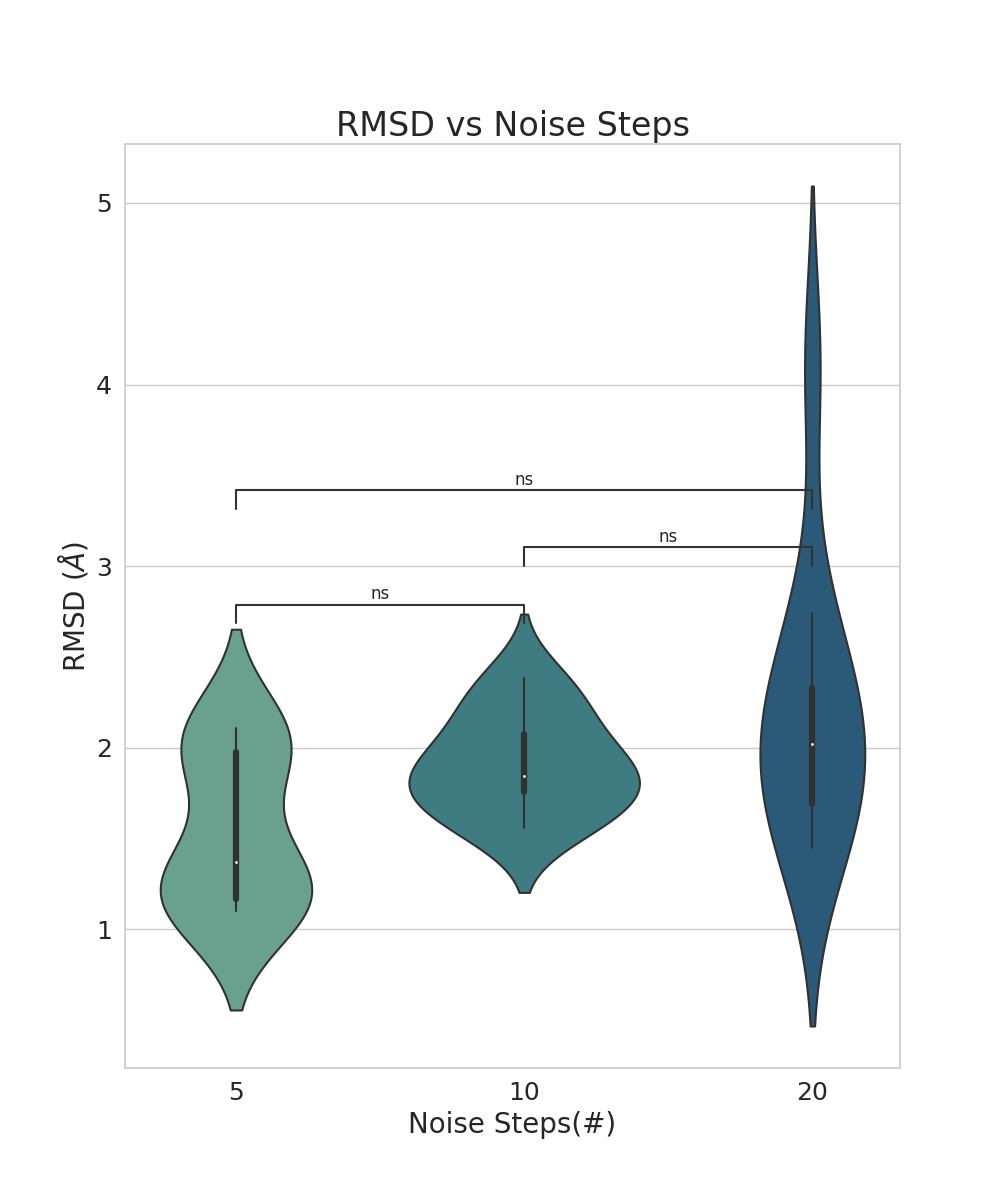
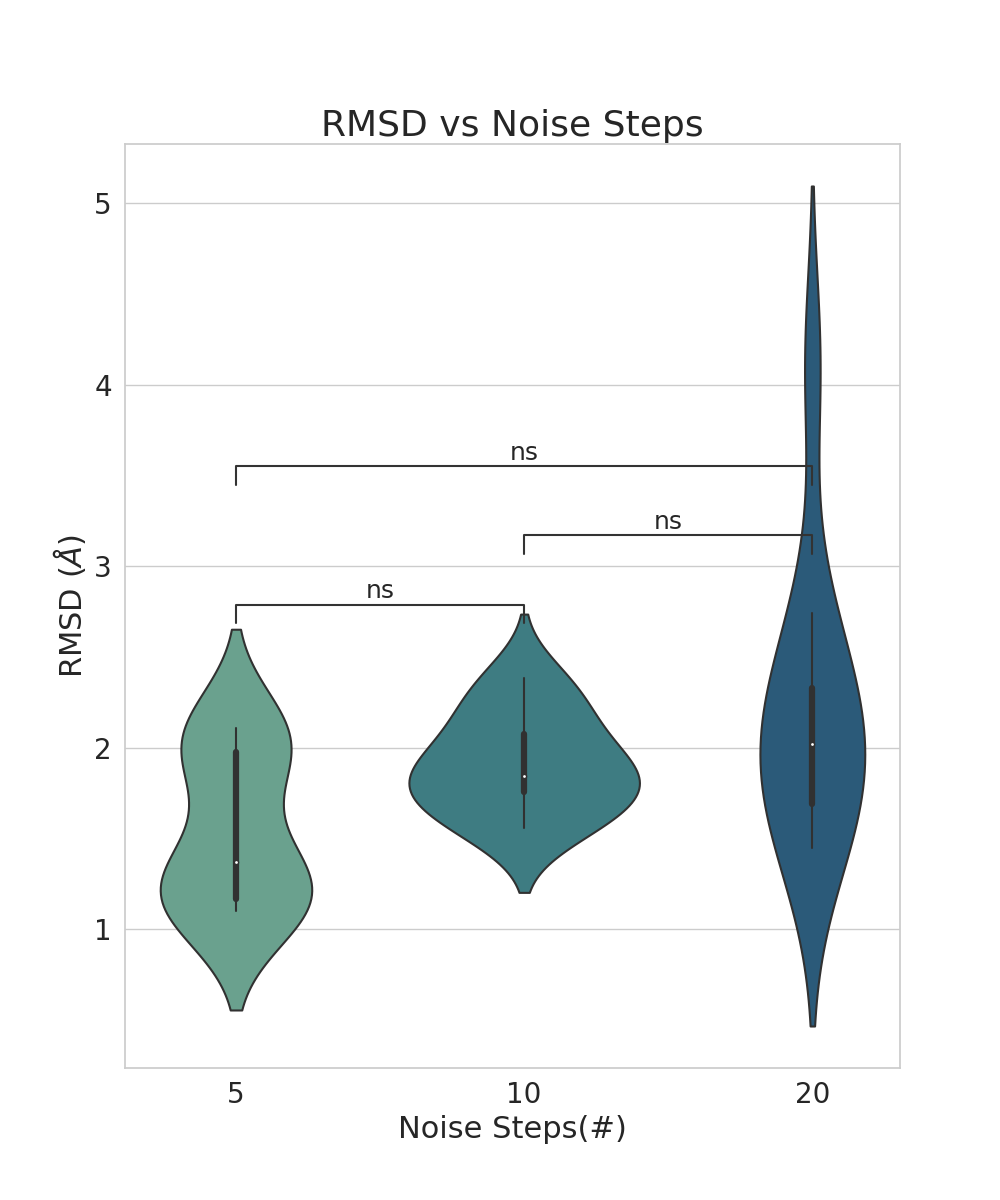
Larger_figures

diff --git a/FIGURES/Noise_Scale_figures.py b/FIGURES/Noise_Scale_figures.py
@@ -38,9 +38,9 @@ plt.figure(figsize=(12, 10))
 barplot = sns.barplot(x='Noise', y='Percentage', data=df_barplot, palette='crest')
 
 # Add titles and labels
-plt.title('Noise Scale Success Rates',fontsize=20)
-plt.ylabel('Hits Success Rate (%)',fontsize=16)
-plt.xlabel('Noise Scale (Arb.Units)', fontsize=16)
+plt.title('Noise Scale Success Rates',fontsize=26)
+plt.ylabel('Hits Success Rate (%)',fontsize=22)
+plt.xlabel('Noise Scale (Arb.Units)', fontsize=22)
 barplot.set_xticklabels((f'0.05\n n={len( df_filtered_112[df_filtered_112["Noise"]==0.05])}', 
                          f'0.1\n n={len(df_filtered_112[df_filtered_112["Noise"]==0.1])}', 
                          f'0.5\n n={len(df_filtered_112[df_filtered_112["Noise"]==0.5])}', 
@@ -48,7 +48,7 @@ barplot.set_xticklabels((f'0.05\n n={len( df_filtered_112[df_filtered_112["Noise
 
 # Show the plot
 plt.ylim((0,0.07))
-plt.tick_params(axis='y', labelsize=14)
+plt.tick_params(axis='y', labelsize=20)
 
 plt.savefig('/home/cchacon/Carlos_scripts/FIGURES/barplot_noisescale.png')
 
@@ -64,26 +64,15 @@ df_filtered_112.loc[df_filtered_112['Noise'] == '01', 'Noise'] = 0.1
 df_filtered_112.loc[df_filtered_112['Noise'] == '05', 'Noise'] = 0.5
 df_filtered_112.loc[df_filtered_112['Noise'] == '1', 'Noise'] = 1.0
 
-
-
-
-
-
-
-
-
-
-
-
 plt.figure(figsize=(12,10))
 sns.set_theme(style='whitegrid')
 sns.pointplot(data=df_filtered_112, x='Noise', y='RMSD', hue= 'Noise', palette='crest', s=100,capsize=0.2, ci=95 )
-plt.title('RMSD vs Noise Scale', fontsize=20)
-plt.xlabel('Noise Scale (Arb.U)', fontsize=16)
-plt.ylabel(f'RMSD ($\AA$)', fontsize=16)
+plt.title('RMSD vs Noise Scale', fontsize=26)
+plt.xlabel('Noise Scale (Arb.U)', fontsize=22)
+plt.ylabel(f'RMSD ($\AA$)', fontsize=22)
 plt.legend(title='Noise Scale')
-plt.tick_params(axis='y', labelsize=14)
-plt.tick_params(axis='x', labelsize=14)
+plt.tick_params(axis='y', labelsize=20)
+plt.tick_params(axis='x', labelsize=20)
 
 plt.savefig('/home/cchacon/Carlos_scripts/FIGURES/Noise_Scale_RMSD.png')
 
@@ -113,14 +102,15 @@ annotator.configure(
     test='Mann-Whitney',
     text_format='star',
     loc='inside',
-    comparisons_correction="bonferroni")
+    comparisons_correction="bonferroni",
+    fontsize=18)
     
 annotator.apply_and_annotate()
-plt.title('RMSD vs Noise Scale', fontsize=20)
-plt.ylabel(f'RMSD ($\AA$)', fontsize=16)
-plt.xlabel('Noise Scale (Arb.U)', fontsize=16)
-plt.tick_params(axis='y', labelsize=14)
-plt.tick_params(axis='x', labelsize=14)
+plt.title('RMSD vs Noise Scale', fontsize=26)
+plt.ylabel(f'RMSD ($\AA$)', fontsize=22)
+plt.xlabel('Noise Scale (Arb.U)', fontsize=22)
+plt.tick_params(axis='y', labelsize=20)
+plt.tick_params(axis='x', labelsize=20)
 
 plt.savefig('/home/cchacon/Carlos_scripts/FIGURES/violinplot_rmsd_noisescale.png')
 
@@ -144,14 +134,15 @@ annotator.configure(
     test='Mann-Whitney',
     text_format='star',
     loc='inside',
-    comparisons_correction="bonferroni")
+    comparisons_correction="bonferroni",
+    fontsize=18)
     
 annotator.apply_and_annotate()
-plt.title('Noise Scale vs PAE interaction', fontsize=20)
-plt.xlabel('Noise Scale (Arb.Units)', fontsize=16)
-plt.ylabel(f'PAE interaction ($\AA$)', fontsize=16)
-plt.tick_params(axis='y', labelsize=14)
-plt.tick_params(axis='x', labelsize=14)
+plt.title('Noise Scale vs PAE interaction', fontsize=26)
+plt.xlabel('Noise Scale (Arb.Units)', fontsize=22)
+plt.ylabel(f'PAE interaction ($\AA$)', fontsize=22)
+plt.tick_params(axis='y', labelsize=20)
+plt.tick_params(axis='x', labelsize=20)
 
 plt.savefig('/home/cchacon/Carlos_scripts/FIGURES/violinplot_pae_interaction_noise_scale.png')
 
@@ -172,14 +163,15 @@ annotator.configure(
     test='Mann-Whitney',
     text_format='star',
     loc='inside',
-    comparisons_correction="bonferroni")
+    comparisons_correction="bonferroni",
+    fontsize=18)
     
 annotator.apply_and_annotate()
-plt.title('Noise Scale vs pLDDT binder', fontsize=20)
-plt.xlabel('Noise Scale (Arb.Units)',fontsize=16)
-plt.ylabel(f'pLDDT binder (Arb.Units)', fontsize=16)
-plt.tick_params(axis='y', labelsize=14)
-plt.tick_params(axis='x', labelsize=14)
+plt.title('Noise Scale vs pLDDT binder', fontsize=26)
+plt.xlabel('Noise Scale (Arb.Units)',fontsize=22)
+plt.ylabel(f'pLDDT binder (Arb.Units)', fontsize=22)
+plt.tick_params(axis='y', labelsize=20)
+plt.tick_params(axis='x', labelsize=20)
 plt.savefig('/home/cchacon/Carlos_scripts/FIGURES/violinplot_plddt_binder_noise_scale.png')
 
 
@@ -212,11 +204,11 @@ sns.scatterplot(data=df_filtered_112,x='pae_interaction',y='plddt_binder', hue='
 sns.scatterplot(data=df_original, x='pae_interaction', y='plddt_binder', color='red', s=100, edgecolors='k', label='Original')
 
 # Add titles and labels
-plt.title('PAE Interaction vs. pLDDT Binder Run_112', fontsize=20)
-plt.xlabel('PAE Interaction', fontsize=16)
-plt.ylabel('pLDDT Binder', fontsize=16)
-plt.tick_params(axis='y', labelsize=14)
-plt.tick_params(axis='x', labelsize=14)
+plt.title('PAE Interaction vs. pLDDT Binder Run_112', fontsize=26)
+plt.xlabel('PAE Interaction', fontsize=22)
+plt.ylabel('pLDDT Binder', fontsize=22)
+plt.tick_params(axis='y', labelsize=20)
+plt.tick_params(axis='x', labelsize=20)
 
 
 # Highlight specific region with a square
@@ -270,11 +262,11 @@ sns.scatterplot(data=df_filtered_264, x='pae_interaction', y='plddt_binder', hue
 sns.scatterplot(data=df_original, x='pae_interaction', y='plddt_binder', color='red', s=100, edgecolors='k', label='Original')
 
 # Add titles and labels
-plt.title('PAE Interaction vs. pLDDT Binder Run_264', fontsize=20)
-plt.xlabel('PAE Interaction', fontsize=16)
-plt.ylabel('pLDDT Binder', fontsize=16)
-plt.tick_params(axis='y', labelsize=14)
-plt.tick_params(axis='x', labelsize=14)
+plt.title('PAE Interaction vs. pLDDT Binder Run_264', fontsize=26)
+plt.xlabel('PAE Interaction', fontsize=22)
+plt.ylabel('pLDDT Binder', fontsize=22)
+plt.tick_params(axis='y', labelsize=20)
+plt.tick_params(axis='x', labelsize=20)
 
 # Highlight specific region with a square
 rect = patches.Rectangle((0, 80), 10, 20, linewidth=2, edgecolor='black', facecolor='none')

diff --git a/FIGURES/Figure_noise_steps.py b/FIGURES/Figure_noise_steps.py
@@ -38,15 +38,15 @@ sns.set_theme(style='whitegrid')
 barplot = sns.barplot(x='Noise', y='Percentage', data=df_barplot, palette='crest')
 
 # Add titles and labels
-plt.title('Noise Steps Success Rates', fontsize=24)
-plt.ylabel('Hits Success Rate (%)', fontsize=20)
+plt.title('Noise Steps Success Rates', fontsize=26)
+plt.ylabel('Hits Success Rate (%)', fontsize=22)
 
-plt.xlabel('Noise Steps (#)', fontsize=20)
+plt.xlabel('Noise Steps (#)', fontsize=22)
 barplot.set_xticklabels((f'5\n n={len( df_whole[df_whole["Noise_Steps"]==5])}', 
                          f'10\n n={len(df_whole[df_whole["Noise_Steps"]==10])}', 
                          f'20\n n={len(df_whole[df_whole["Noise_Steps"]==20])}', 
                          f'30\n n={len(df_whole[df_whole["Noise_Steps"]==30])}'), fontsize=18)
-plt.tick_params(axis='y', labelsize=18)
+plt.tick_params(axis='y', labelsize=20)
 # Show the plot
 plt.ylim((0,0.07))
 plt.savefig('/home/cchacon/Carlos_scripts/FIGURES/barplot_noisesteps.png')
@@ -75,11 +75,11 @@ sns.pointplot(data=df_filtered, x='Noise', y='RMSD', hue= 'Noise', palette='cres
 
 # Plot the regression line
 # sns.lineplot(x=X, y=y_pred, label=f'$r$={r_value:.2f}', color='red', ax=ax) ##Doesn't work##
-plt.title('RMSD vs Noise Steps', fontsize=24)
-plt.xlabel('Noise Steps (#)', fontsize=20)
-plt.ylabel(f'RMSD ($\AA$)', fontsize=20)
-plt.tick_params(axis='y', labelsize=18)
-plt.tick_params(axis='x', labelsize=18)
+plt.title('RMSD vs Noise Steps', fontsize=26)
+plt.xlabel('Noise Steps (#)', fontsize=22)
+plt.ylabel(f'RMSD ($\AA$)', fontsize=22)
+plt.tick_params(axis='y', labelsize=20)
+plt.tick_params(axis='x', labelsize=20)
 plt.legend(title='Noise Steps')
 plt.savefig('/home/cchacon/Carlos_scripts/FIGURES/NoiseStepsRMSD.png')
 
@@ -101,14 +101,15 @@ annotator.configure(
     test='Mann-Whitney',
     text_format='star',
     loc='inside',
-    comparisons_correction="bonferroni")
+    comparisons_correction="bonferroni",
+    fontsize=18)
     
 annotator.apply_and_annotate()
-plt.title('RMSD vs Noise Steps', fontsize=24)
-plt.ylabel(f'RMSD ($\AA$)', fontsize=20)
-plt.xlabel('Noise Steps(#)', fontsize=20)
-plt.tick_params(axis='y', labelsize=18)
-plt.tick_params(axis='x', labelsize=18)
+plt.title('RMSD vs Noise Steps', fontsize=26)
+plt.ylabel(f'RMSD ($\AA$)', fontsize=22)
+plt.xlabel('Noise Steps(#)', fontsize=22)
+plt.tick_params(axis='y', labelsize=20)
+plt.tick_params(axis='x', labelsize=20)
 
 plt.savefig('/home/cchacon/Carlos_scripts/FIGURES/violinplot_rmsd_noisesteps.png')
 
@@ -134,14 +135,15 @@ annotator.configure(
     test='Mann-Whitney',
     text_format='star',
     loc='inside',
-    comparisons_correction="bonferroni")
+    comparisons_correction="bonferroni",
+    fontsize=18)
     
 annotator.apply_and_annotate()
-plt.title('Noise Steps vs PAE interaction', fontsize=24)
-plt.xlabel('Noise Steps (#)', fontsize=20)
-plt.ylabel(f'PAE interaction ($\AA$)', fontsize=20)
-plt.tick_params(axis='y', labelsize=18)
-plt.tick_params(axis='x', labelsize=18)
+plt.title('Noise Steps vs PAE interaction', fontsize=26)
+plt.xlabel('Noise Steps (#)', fontsize=22)
+plt.ylabel(f'PAE interaction ($\AA$)', fontsize=22)
+plt.tick_params(axis='y', labelsize=20)
+plt.tick_params(axis='x', labelsize=20)
 
 
 plt.savefig('/home/cchacon/Carlos_scripts/FIGURES/violinplot_pae_interaction_noise_steps.png')
@@ -165,14 +167,15 @@ annotator.configure(
     test='Mann-Whitney',
     text_format='star',
     loc='inside',
-    comparisons_correction="bonferroni")
+    comparisons_correction="bonferroni",
+    fontsize=18)
     
 annotator.apply_and_annotate()
-plt.title('Noise Steps vs pLDDT binder', fontsize=24)
-plt.xlabel('Noise Steps (#)', fontsize=20)
-plt.ylabel(f'pLDDT binder (Arb.Units)', fontsize=20)
-plt.tick_params(axis='y', labelsize=18)
-plt.tick_params(axis='x', labelsize=18)
+plt.title('Noise Steps vs pLDDT binder', fontsize=26)
+plt.xlabel('Noise Steps (#)', fontsize=22)
+plt.ylabel(f'pLDDT binder (Arb.Units)', fontsize=22)
+plt.tick_params(axis='y', labelsize=20)
+plt.tick_params(axis='x', labelsize=20)
 
 
 plt.savefig('/home/cchacon/Carlos_scripts/FIGURES/violinplot_plddt_binder_noise_steps.png')
@@ -207,11 +210,11 @@ sns.scatterplot(data=df_filtered, x='plddt_binder', y='pae_interaction', hue='No
 sns.scatterplot(data=df_original, x='plddt_binder', y='pae_interaction', color='red', s=100, label='Original')
 
 # Add titles and labels
-plt.title('PAE Interaction vs. pLDDT Binder run_264', fontsize=24)
-plt.xlabel('PAE Interaction', fontsize=20)
-plt.ylabel('pLDDT Binder', fontsize=20)
-plt.tick_params(axis='y', labelsize=18)
-plt.tick_params(axis='x', labelsize=18)
+plt.title('PAE Interaction vs. pLDDT Binder run_264', fontsize=26)
+plt.xlabel('PAE Interaction', fontsize=22)
+plt.ylabel('pLDDT Binder', fontsize=22)
+plt.tick_params(axis='y', labelsize=20)
+plt.tick_params(axis='x', labelsize=20)
 
 
 # Highlight specific region with a square
